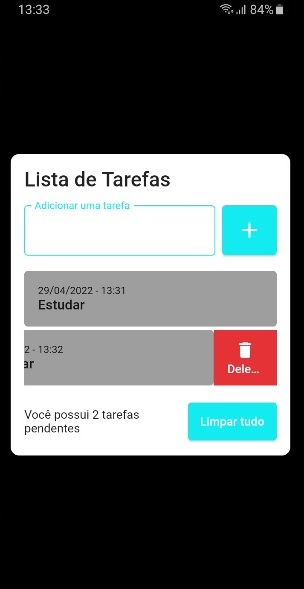
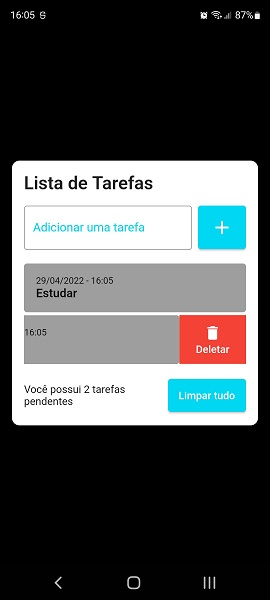
fix slidable action size

diff --git a/lib/widgets/todo_list_item.dart b/lib/widgets/todo_list_item.dart
@@ -32,7 +32,7 @@ class TodoListItem extends StatelessWidget {
         child: Slidable(
           endActionPane: ActionPane(
             motion: const ScrollMotion(),
-            extentRatio: 0.25,
+            extentRatio: 0.3,
             children: [
               SlidableAction(
                 onPressed: (_) {
